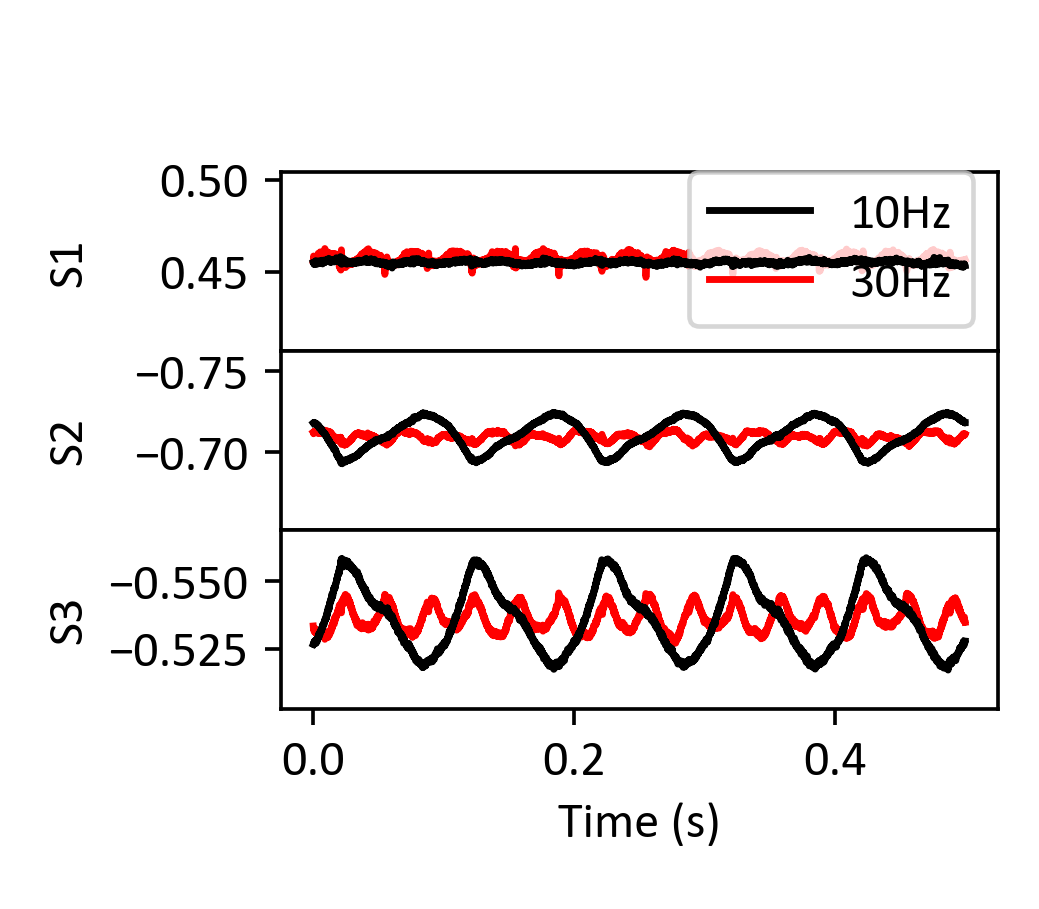
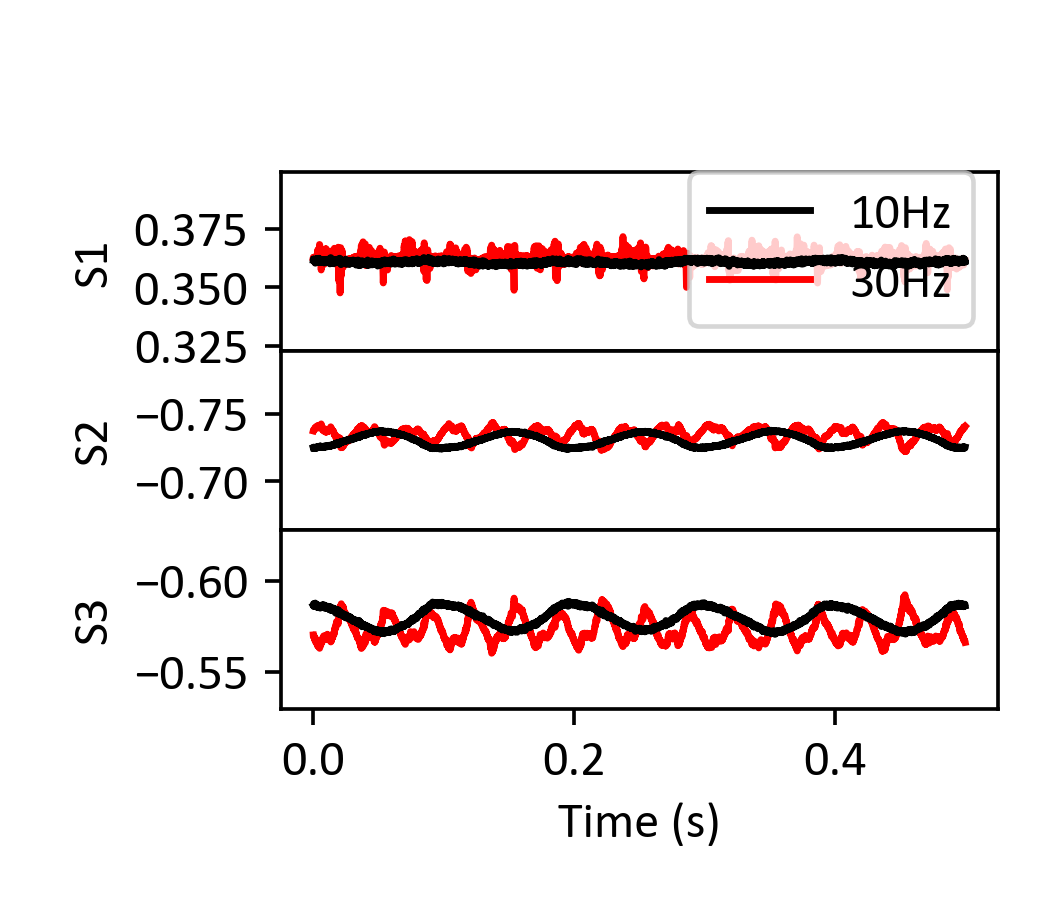
Figure 5 acceleration unit changed from g to m/s2

diff --git a/JournalPaper/Figure5_SOPchange_with_input_signal2.py b/JournalPaper/Figure5_SOPchange_with_input_signal2.py
@@ -176,12 +176,14 @@ def freq2disp(x):
 
 
 def freq2acc(x):
+    x =x/10
     d = 20e-3
     a = d*(x**2)
     return a
 
 
 def acc2freq(x):
+    x /= 10
     d = 20e-3
     return np.sqrt(x/d)
 
@@ -299,25 +301,45 @@ if __name__ == '__main__':
     plt.subplots_adjust(left=0.11, bottom=0.22, right=0.96, top=0.81, wspace=0.4, hspace=0.502)
 
     ms = 4
-    ax[0].plot(displacement, alpha1, lw='1', label="Max. SOP change", marker='o', color='k', markersize=ms)
+    ax[0].plot(displacement, alpha1, lw='1', label=r'SOP change ($\alpha$)', marker='o', color='k', markersize=ms)
+
+    coef = np.polyfit(displacement,alpha1,1)
+    poly1d_fn = np.poly1d(coef)
+    x = np.hstack((np.array([5]), displacement, np.array([82.5])))
+    ax[0].plot(x, poly1d_fn(x), lw='1', label="Linear fitting", color='r')
+    #print(coef)
+    ax[0].text(8, 1.7, r'y='+str(coef[0])[0:7]+'x + '+str(coef[1])[0:7])
+    # ax[0].text(8, 1.8, r'an equation: $E=mc^2$', fontsize=15)
+
     ax[0].set_xlabel('Displacement (mm)')
     #ax[0].set_ylabel('Max. SOP change (deg)')
     ax[0].set_ylabel(r'$\alpha$ (deg)')
     ax[0].set(xlim=(1, 90), ylim=(0, 2))
+    ax[0].xaxis.set_major_locator(MaxNLocator(5))
+    ax[0].text(0, -0.27, '0')
+
     secax1 = ax[0].secondary_xaxis('top', functions=(disp2freq, freq2disp))
     secax1.set_xlabel('Frequency H(z)')
     #secax1.xaxis.set_major_locator(MaxNLocator(6))
     secax1.set_xticks([30, 20, 16, 12, 10])
     secax1.set_xticklabels([30, 20, 16, 12, 10])
-
-
+    ax[0].legend(bbox_to_anchor=(1.05, -0.1), loc='lower right', frameon=False)
     #secax1.set(xlim=(30, 10))
 
-    ax[1].plot(acceleration, alpha2, lw='1', label="Max. SOP change", marker='o', color='k', markersize=ms)
-    ax[1].set_xlabel('Acceleration (g)')
+    ax[1].plot(acceleration*10, alpha2, lw='1', label=r'SOP change ($\alpha$)', marker='o', color='k', markersize=ms)
+    coef = np.polyfit(acceleration*10,alpha2,1)
+    poly1d_fn = np.poly1d(coef)
+    x = np.hstack((np.array([10]), acceleration*10, np.array([190])))
+    ax[1].plot(x, poly1d_fn(x), lw='1', label="Linear fitting", color='r')
+    ax[1].text(10, 1.7, r'y='+str(coef[0])[0:7]+'x + '+str(coef[1])[0:7])
+    ax[1].legend(bbox_to_anchor=(1.05, -0.1), loc='lower right', frameon=False)
+
+    #ax[1].set_xlabel('Acceleration (g)')
+    ax[1].set_xlabel(r'Acceleration (m/s$^2$)')
+
     #ax[1].set_ylabel('Max. SOP change (deg)')
     ax[1].set_ylabel(r'$\alpha$ (deg)')
-    ax[1].set(xlim=(0, 20), ylim=(0, 2))
+    ax[1].set(xlim=(0, 200), ylim=(0, 2))
     secax2 = ax[1].secondary_xaxis('top', functions=(acc2freq, freq2acc))
     secax2.set_xlabel('Frequency H(z)')
 

diff --git a/JournalPaper/Figure5_SOPchange_Freq.py b/JournalPaper/Figure5_SOPchange_Freq.py
@@ -150,10 +150,11 @@ plt.rc('legend', fontsize=fsize)  # f-size legend
 plt.rc('axes', titlesize=6)  # f-size of the axes title (??)
 plt.rc('figure', titlesize=6)  # f-size of the figure title
 
-#V_foldername = ['Const_disp_Polarimeter2']
-V_foldername = ['Const_acc_Polarimeter']
+V_foldername = ['Const_disp_Polarimeter2']
+#V_foldername = ['Const_acc_Polarimeter']
 
-fig3, ax3 = plt.subplots(2, figsize=(8 / 2.54, 7 / 2.54))
+#fig3, ax3 = plt.subplots(2, figsize=(8 / 2.54, 7 / 2.54))
+fig3, ax3 = plt.subplots(2, figsize=(10 / 2.54, 7 / 2.54))
 fig3.set_dpi(91.79)  # DPI of My office monitor
 plt.subplots_adjust(left=0.27, bottom=0.22, right=0.96, top=0.81, wspace=0.4, hspace=0.0)
 fig, ax = plt.subplots(3, figsize=(8 / 2.54, 7 / 2.54))
@@ -196,13 +197,13 @@ for n_iter, foldername in enumerate(V_foldername):
                 col = 'k'
                 [bot0, bot1, bot2] = [S1.min()*0.9, S2.min()*0.9, S3.min()*0.9]
                 [top0, top1, top2] = [S1.max()*1.1, S2.max()*1.1, S3.max()*1.1]
-                #legend0 = '2g (10 Hz)'
-                legend0 = '80 mm (10 Hz)'
+                legend0 = r'20 m/s$^2$ (10 Hz)'
+                #legend0 = '80 mm (10 Hz)'
 
             else:
                 col = 'r'
-                #legend0 = '18g (30 Hz)'
-                legend0 = '5 mm (30 Hz)'
+                legend0 = r'180 m/s$^2$ (30 Hz)'
+                #legend0 = '8 mm (30 Hz)'
 
             ax[0].plot(time, S1, col, zorder=10-nn, label=str(10+nn)+'Hz')
             ax[0].set_ylim(bot0, top0)
@@ -215,7 +216,7 @@ for n_iter, foldername in enumerate(V_foldername):
             ax3[0].set_xlabel("Time (s)")
             ax3[0].set_ylabel(r'$\psi$'+' (deg)')
             ax3[0].set_ylim((azi_V.min()*180/pi*0.999, azi_V.max()*180/pi*1.001))
-            ax3[0].legend(bbox_to_anchor=(0.2, 1.7), loc='upper left', fancybox=False, ncol=1)
+            ax3[0].legend(bbox_to_anchor=(-0.4, 1.7), loc='upper left', fancybox=False, ncol=2, frameon=False)
 
             ax3[1].plot(time, ellip_V*180/pi, col, zorder=10-nn)
             ax3[1].set_xlabel("Time (s)")

diff --git a/JournalPaper/Figure3_Vibrationsignalmeasurement.py b/JournalPaper/Figure3_Vibrationsignalmeasurement.py
@@ -79,10 +79,10 @@ def read_shakerinputsignal(foldername, fig=None):
         y1[nn] = (max(signal0) - min(signal0))
         print(y1[nn])
 
-    fig, ax = plt.subplots(2, figsize=(6/2.54, 9/2.54))
+    fig, ax = plt.subplots(2, figsize=(6.3/2.54, 9/2.54))
 
     fig.set_dpi(91.79)  # DPI of My office monitor
-    plt.subplots_adjust(left=0.19, bottom=0.13, right=0.78, top=0.93, wspace=0.2, hspace=0.75)
+    plt.subplots_adjust(left=0.23, bottom=0.13, right=0.78, top=0.93, wspace=0.2, hspace=0.75)
     plt.subplots_adjust(bottom=0.155)
 
     ms = 3
@@ -92,11 +92,13 @@ def read_shakerinputsignal(foldername, fig=None):
     ax[0].set_title('Input signal')
     ax[0].set(xlim=(10, 30), ylim=(0, 12))
 
-    ax[1].plot(x0, y0, lw='1', label="Acceleration", marker='o', color='k', markersize=ms)
+    ax[1].plot(x0, y0*10, lw='1', label="Acceleration", marker='o', color='k', markersize=ms)
     ax[1].set_xlabel('Frequency (Hz)')
-    ax[1].set_ylabel('Acceleration (g)')
+    #ax[1].set_ylabel('Acceleration (g)')
+    ax[1].set_ylabel(r'Acceleration (m/s$^2$)')
+
     ax[1].set_title('Vibration signal')
-    ax[1].set(xlim=(10, 30), ylim=(0, 30))
+    ax[1].set(xlim=(10, 30), ylim=(0, 30*10))
     lns1 = ax[1].lines
     ax2 = ax[1].twinx()
     lns2 = ax2.plot(x0, y0 / (x0 ** 2) * 1000, lw='1', label="Displacment", marker='o', color='r', markersize=ms)
